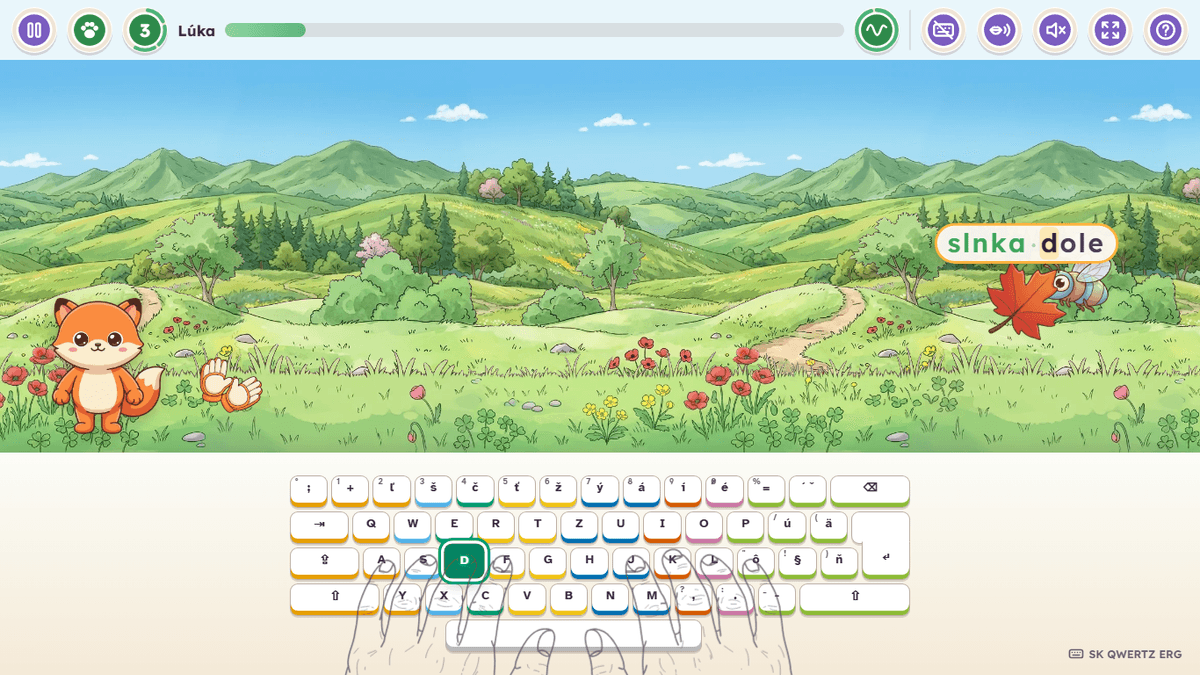
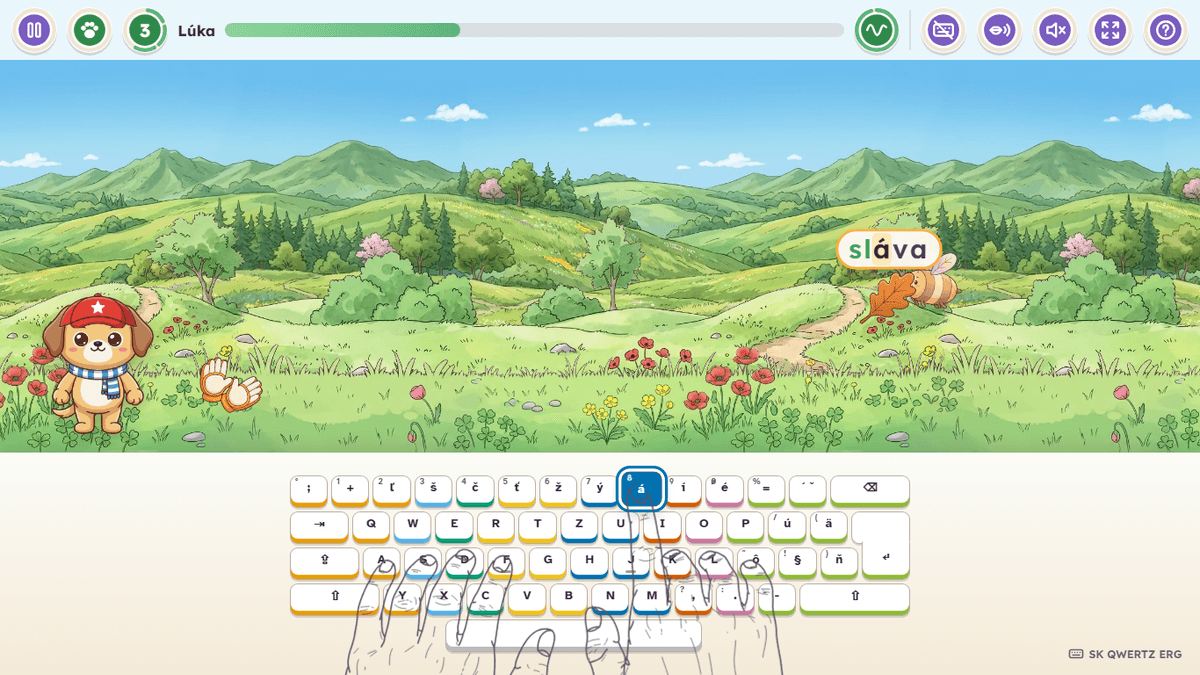
docs(readme): the meadow and space shots catch a long á and a capital R, a random animal, no extra pictures
Claude-Session: https://claude.ai/code/session_01MAZwqUxdgFNECneG3Ef7C9

diff --git a/README.md b/README.md
@@ -63,9 +63,6 @@ being made. No explosions, no punishment, no ads, no accounts.
   number row, `ú ä ô ň`, dead keys for `ó ĺ ŕ ď` and accented capitals, and a hint when
   the real keyboard looks different.
 
-![A capital R: the right hand's pinky holds Shift, the left index finger presses R](docs/capital.png)
-![A long á: its own key on the Slovak number row](docs/long-letter.png)
-
 ## The game
 
 **Story 1: Tapko and the Dragon Egg**
@@ -113,8 +110,8 @@ see on the map or in My progress.
 
 ![The map](docs/map.png)
 ![Tasks page](docs/tasks.png)
-![Meadow level](docs/meadow.png)
-![Space level](docs/space.png)
+![Meadow level: a long á, its own key on the Slovak number row](docs/meadow.png)
+![Space level: a capital R, the right pinky holds Shift](docs/space.png)
 
 ## For parents
 
